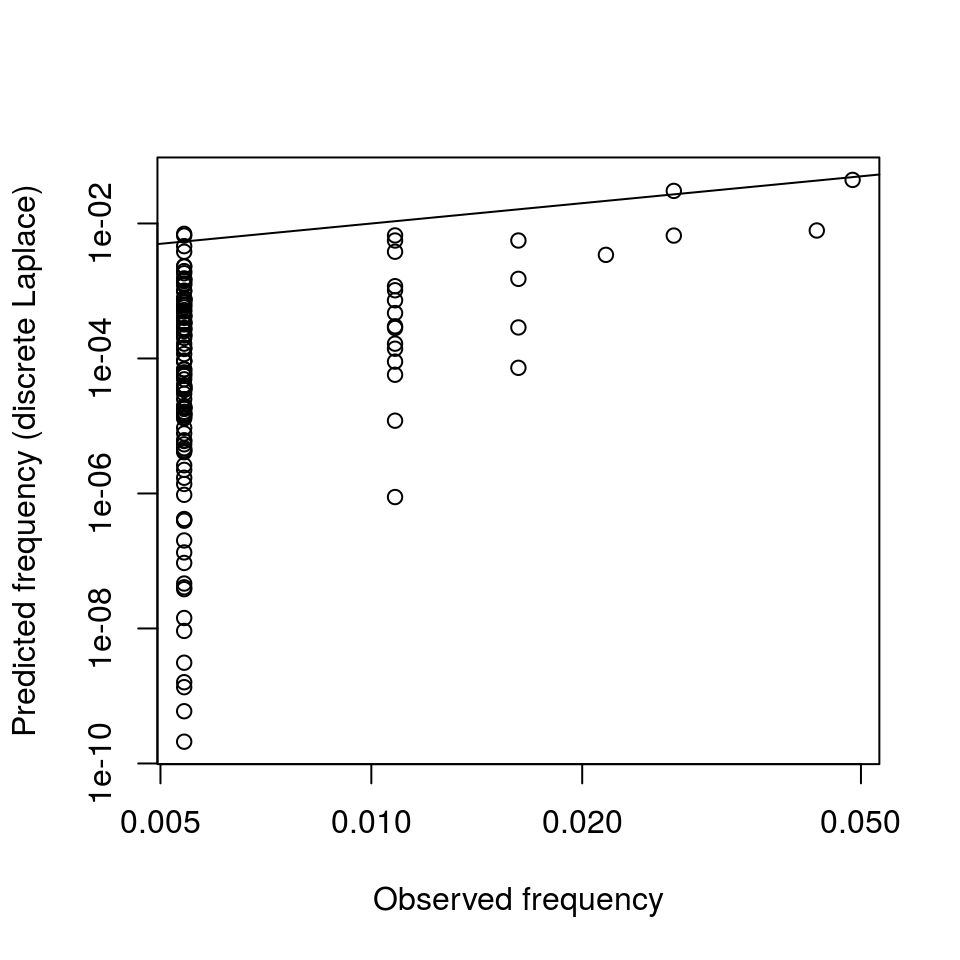
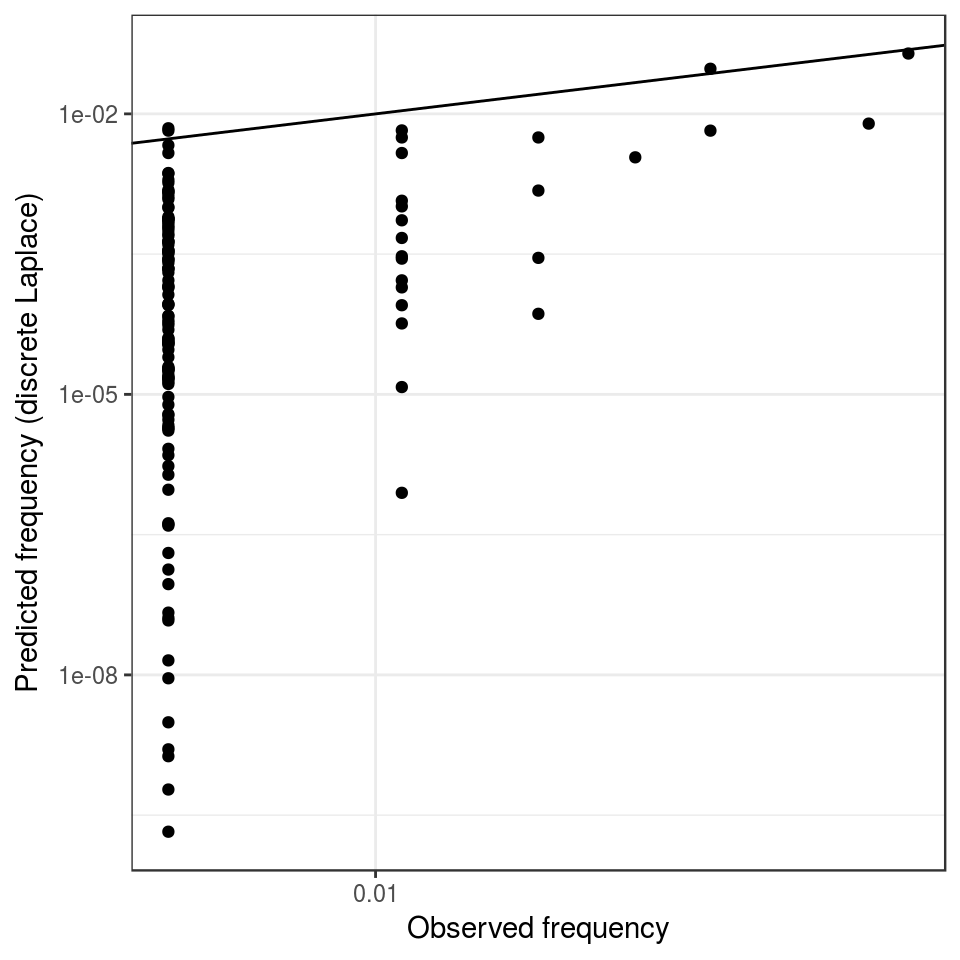
Fixes #2

diff --git a/inst/doc/introduction.html b/inst/doc/introduction.html
@@ -69,7 +69,7 @@ code > span.in { color: #60a0b0; font-weight: bold; font-style: italic; } /* Inf
 
 <h1 class="title toc-ignore">Introduction</h1>
 <h4 class="author"><em>Mikkel Meyer Andersen</em></h4>
-<h4 class="date"><em>24 April, 2018</em></h4>
+<h4 class="date"><em>01 June, 2018</em></h4>
 
 
 
@@ -79,11 +79,13 @@ code > span.in { color: #60a0b0; font-weight: bold; font-style: italic; } /* Inf
 </div>
 <div id="analysis" class="section level1">
 <h1>Analysis</h1>
-<p>A Danish reference database <span class="citation">(Hallenberg et al. 2005)</span> with <span class="math inline">\(n = 185\)</span> observations (male Y-STR haplotypes) at <span class="math inline">\(r=10\)</span> loci is available in the <code>dane</code> dataset. Let us load the package as well as the data:</p>
-<div class="sourceCode"><pre class="sourceCode r"><code class="sourceCode r"><span class="kw">library</span>(disclapmix)
+<p>A Danish reference database <span class="citation">(Hallenberg et al. 2005)</span> with <span class="math inline">\(n = 185\)</span> observations (male Y-STR haplotypes) at <span class="math inline">\(r=10\)</span> loci is available in the <code>danes</code> dataset. Let us load the package as well as the data:</p>
+<div class="sourceCode"><pre class="sourceCode r"><code class="sourceCode r"><span class="kw">library</span>(ggplot2)
+
+<span class="kw">library</span>(disclapmix)
 <span class="kw">data</span>(danes)</code></pre></div>
 <p>The database is in compact format, i.e. one unique haplotype per row. To fit the model, we need one observation per row. This is done for example like this:</p>
-<div class="sourceCode"><pre class="sourceCode r"><code class="sourceCode r">db &lt;-<span class="st"> </span><span class="kw">as.matrix</span>(danes[<span class="kw">rep</span>(<span class="dv">1</span>:<span class="kw">nrow</span>(danes), danes$n), <span class="dv">1</span>:(<span class="kw">ncol</span>(danes)-<span class="dv">1</span>)])
+<div class="sourceCode"><pre class="sourceCode r"><code class="sourceCode r">db &lt;-<span class="st"> </span><span class="kw">as.matrix</span>(danes[<span class="kw">rep</span>(<span class="kw">seq_len</span>(<span class="kw">nrow</span>(danes)), danes$n), <span class="kw">seq_len</span>(<span class="kw">ncol</span>(danes)-<span class="dv">1</span>)])
 <span class="kw">str</span>(db)</code></pre></div>
 <pre><code>##  int [1:185, 1:10] 13 13 13 13 13 13 14 14 14 14 ...
 ##  - attr(*, &quot;dimnames&quot;)=List of 2
@@ -104,7 +106,7 @@ marginalBICs &lt;-<span class="st"> </span><span class="kw">sapply</span>(fits, 
 })
 
 bestfit &lt;-<span class="st"> </span>fits[[<span class="kw">which.min</span>(marginalBICs)]]</code></pre></div>
-<p>The best fit is now in the <code>bestfit</code> that can be inspected by <code>print</code> (default method called when the variable is just written) or <code>summary</code>:</p>
+<p>The best fit is now in the <code>bestfit</code> that can be inspected by <code>print</code> (default method called when the variable is just written) or <code>summary</code> which (currently) give the same output:</p>
 <div class="sourceCode"><pre class="sourceCode r"><code class="sourceCode r">bestfit</code></pre></div>
 <pre><code>## disclapmixfit from 185 observations on 10 loci with 4 clusters.</code></pre>
 <div class="sourceCode"><pre class="sourceCode r"><code class="sourceCode r"><span class="kw">summary</span>(bestfit)</code></pre></div>
@@ -146,15 +148,18 @@ bestfit &lt;-<span class="st"> </span>fits[[<span class="kw">which.min</span>(ma
 ## cluster4 0.08626391 0.03665325 0.03335805 0.1497008</code></pre>
 <p>The returned object is described in <code>?disclapmix</code> and objects can be inspected using e.g. <code>str()</code>.</p>
 <p>Haplotype frequencies can be obtained using the <code>predict</code> function. Note, that this is done per haplotype (<code>danes</code>) and not per observation (<code>db</code>):</p>
-<div class="sourceCode"><pre class="sourceCode r"><code class="sourceCode r">disclap_estimates &lt;-<span class="st"> </span><span class="kw">predict</span>(bestfit, <span class="dt">newdata =</span> <span class="kw">as.matrix</span>(danes[, <span class="dv">1</span>:(<span class="kw">ncol</span>(danes) -<span class="st"> </span><span class="dv">1</span>)]))</code></pre></div>
+<div class="sourceCode"><pre class="sourceCode r"><code class="sourceCode r">disclap_estimates &lt;-<span class="st"> </span><span class="kw">predict</span>(bestfit, 
+                             <span class="dt">newdata =</span> <span class="kw">as.matrix</span>(danes[, <span class="dv">1</span>:(<span class="kw">ncol</span>(danes) -<span class="st"> </span><span class="dv">1</span>)]))</code></pre></div>
 <p>These can be compared to the database frequencies:</p>
-<div class="sourceCode"><pre class="sourceCode r"><code class="sourceCode r"><span class="kw">plot</span>(<span class="dt">x =</span> danes$n/<span class="kw">sum</span>(danes$n), 
-     <span class="dt">y =</span> disclap_estimates, 
-     <span class="dt">xlab =</span> <span class="st">&quot;Observed frequency&quot;</span>,
-     <span class="dt">ylab =</span> <span class="st">&quot;Predicted frequency (discrete Laplace)&quot;</span>,
-     <span class="dt">log =</span> <span class="st">&quot;xy&quot;</span>)
-<span class="kw">abline</span>(<span class="dv">0</span>, <span class="dv">1</span>)</code></pre></div>
[1 lines of base64/hex data omitted]
+<div class="sourceCode"><pre class="sourceCode r"><code class="sourceCode r"><span class="kw">ggplot</span>() +
+<span class="st">  </span><span class="kw">geom_abline</span>(<span class="dt">intercept =</span> <span class="dv">0</span>, <span class="dt">slope =</span> <span class="dv">1</span>) +
+<span class="st">  </span><span class="kw">geom_point</span>(<span class="kw">aes</span>(<span class="dt">x =</span> danes$n/<span class="kw">sum</span>(danes$n), <span class="dt">y =</span> disclap_estimates)) +
+<span class="st">  </span><span class="kw">labs</span>(<span class="dt">x =</span> <span class="st">&quot;Observed frequency&quot;</span>,
+       <span class="dt">y =</span> <span class="st">&quot;Predicted frequency (discrete Laplace)&quot;</span>) +
+<span class="st">  </span><span class="kw">theme_bw</span>() +
+<span class="st">  </span><span class="kw">scale_x_log10</span>() +
+<span class="st">  </span><span class="kw">scale_y_log10</span>()</code></pre></div>
[1 lines of base64/hex data omitted]
 </div>
 <div id="references" class="section level1 unnumbered">
 <h1>References</h1>
@@ -163,7 +168,7 @@ bestfit &lt;-<span class="st"> </span>fits[[<span class="kw">which.min</span>(ma
 <p>Andersen, Mikkel Meyer, Poul Svante Eriksen, and Niels Morling. 2013a. “A gentle introduction to the discrete Laplace method for estimating Y-STR haplotype frequencies.” <em>Preprint, ArXiv:1304.2129</em>.</p>
 </div>
 <div id="ref-AndersenDisclap2013">
-<p>———. 2013b. “The discrete Laplace exponential family and estimation of Y-STR haplotype frequencies.” <em>Journal of Theoretical Biology</em> 329: 39–51.</p>
+<p>———. 2013b. “The discrete Laplace exponential family and estimation of Y-STR haplotype frequencies.” <em>Journal of Theoretical Biology</em> 329: 39–51. doi:<a href="https://doi.org/10.1016/j.jtbi.2013.03.009">10.1016/j.jtbi.2013.03.009</a>.</p>
 </div>
 <div id="ref-Hallenberg2005YchromosomeSH">
 <p>Hallenberg, Charlotte, Karsten Nielsen, Bo Simonsen, Juan Sanchez, and Niels Morling. 2005. “Y-Chromosome Str Haplotypes in Danes.” <em>Forensic Science International</em> 155 2-3: 205–10.</p>

diff --git a/docs/reference/disclapmix.html b/docs/reference/disclapmix.html
@@ -273,60 +273,60 @@ in R is used.</p>
 #&gt; [4,]   15   15   16   15
 #&gt; [5,]   18   16   18   16
 #&gt; [6,]   14   15   16   17</div><div class='input'>
-<span class='no'>fit1</span> <span class='kw'>&lt;-</span> <span class='fu'>disclapmix</span>(<span class='no'>db</span>, <span class='kw'>clusters</span> <span class='kw'>=</span> <span class='fl'>1L</span>, <span class='kw'>verbose</span> <span class='kw'>=</span> <span class='fl'>1L</span>, <span class='kw'>glm_method</span> <span class='kw'>=</span> <span class='st'>"glm.fit"</span>)</div><div class='output co'>#&gt; 2018-05-23 10:30:20: Starting estimation for 1 clusters.
-#&gt; 2018-05-23 10:30:20: Estimating initial central haplotypes, y, using pam.
-#&gt; 2018-05-23 10:30:20: Initial central haplotypes, y, estimated.
-#&gt; 2018-05-23 10:30:20: Starting to generate model matrix.
-#&gt; 2018-05-23 10:30:20: Model matrix generated.
-#&gt; 2018-05-23 10:30:20: Starting to generate initial response vector.
-#&gt; 2018-05-23 10:30:20: Initial response vector done.
-#&gt; 2018-05-23 10:30:20: Model matrix and initial vectors has been generated.
-#&gt; 2018-05-23 10:30:20: Starting the EM algorithm using glm.fit IRLS method.
-#&gt; 2018-05-23 10:30:20: Iteration 1, max|vic - vic_old| / max(vic_old) = 0 / 0 = NaN (eps = 0.001)
-#&gt; 2018-05-23 10:30:20: Checking if the central haplotypes, y, are optimal.
-#&gt; 2018-05-23 10:30:20: Central haplotypes, y, were optimal, no need to more EM iterations.
-#&gt; 2018-05-23 10:30:20: Done.</div><div class='input'><span class='no'>fit1</span>$<span class='no'>disclap_parameters</span></div><div class='output co'>#&gt;            locus1    locus2    locus3    locus4
+<span class='no'>fit1</span> <span class='kw'>&lt;-</span> <span class='fu'>disclapmix</span>(<span class='no'>db</span>, <span class='kw'>clusters</span> <span class='kw'>=</span> <span class='fl'>1L</span>, <span class='kw'>verbose</span> <span class='kw'>=</span> <span class='fl'>1L</span>, <span class='kw'>glm_method</span> <span class='kw'>=</span> <span class='st'>"glm.fit"</span>)</div><div class='output co'>#&gt; 2018-06-01 19:43:09: Starting estimation for 1 clusters.
+#&gt; 2018-06-01 19:43:09: Estimating initial central haplotypes, y, using pam.
+#&gt; 2018-06-01 19:43:09: Initial central haplotypes, y, estimated.
+#&gt; 2018-06-01 19:43:09: Starting to generate model matrix.
+#&gt; 2018-06-01 19:43:09: Model matrix generated.
+#&gt; 2018-06-01 19:43:09: Starting to generate initial response vector.
+#&gt; 2018-06-01 19:43:09: Initial response vector done.
+#&gt; 2018-06-01 19:43:09: Model matrix and initial vectors has been generated.
+#&gt; 2018-06-01 19:43:09: Starting the EM algorithm using glm.fit IRLS method.
+#&gt; 2018-06-01 19:43:09: Iteration 1, max|vic - vic_old| / max(vic_old) = 0 / 0 = NaN (eps = 0.001)
+#&gt; 2018-06-01 19:43:09: Checking if the central haplotypes, y, are optimal.
+#&gt; 2018-06-01 19:43:09: Central haplotypes, y, were optimal, no need to more EM iterations.
+#&gt; 2018-06-01 19:43:09: Done.</div><div class='input'><span class='no'>fit1</span>$<span class='no'>disclap_parameters</span></div><div class='output co'>#&gt;            locus1    locus2    locus3    locus4
 #&gt; cluster1 0.276984 0.3152222 0.2941409 0.3254467</div><div class='input'><span class='no'>fit1</span>$<span class='no'>y</span></div><div class='output co'>#&gt;      locus1 locus2 locus3 locus4
 #&gt; [1,]     14     15     16     17</div><div class='input'>
-<span class='no'>fit1b</span> <span class='kw'>&lt;-</span> <span class='fu'>disclapmix</span>(<span class='no'>db</span>, <span class='kw'>clusters</span> <span class='kw'>=</span> <span class='fl'>1L</span>, <span class='kw'>verbose</span> <span class='kw'>=</span> <span class='fl'>1L</span>, <span class='kw'>glm_method</span> <span class='kw'>=</span> <span class='st'>"internal_coef"</span>)</div><div class='output co'>#&gt; 2018-05-23 10:30:20: Starting estimation for 1 clusters.
-#&gt; 2018-05-23 10:30:20: Estimating initial central haplotypes, y, using pam.
-#&gt; 2018-05-23 10:30:20: Initial central haplotypes, y, estimated.
-#&gt; 2018-05-23 10:30:20: No need to generate model matrix when using internal_coef.
-#&gt; 2018-05-23 10:30:20: Starting to generate initial response vector.
-#&gt; 2018-05-23 10:30:20: Initial response vector done.
-#&gt; 2018-05-23 10:30:20: Model matrix and initial vectors has been generated.
-#&gt; 2018-05-23 10:30:20: Starting the EM algorithm using internal_coef IRLS method.
-#&gt; 2018-05-23 10:30:20: Iteration 1, max|vic - vic_old| / max(vic_old) = 0 / 0 = NaN (eps = 0.001)
-#&gt; 2018-05-23 10:30:20: Checking if the central haplotypes, y, are optimal.
-#&gt; 2018-05-23 10:30:20: Central haplotypes, y, were optimal, no need to more EM iterations.
-#&gt; 2018-05-23 10:30:20: Done.</div><div class='input'><span class='no'>fit1b</span>$<span class='no'>disclap_parameters</span></div><div class='output co'>#&gt;            locus1    locus2    locus3    locus4
+<span class='no'>fit1b</span> <span class='kw'>&lt;-</span> <span class='fu'>disclapmix</span>(<span class='no'>db</span>, <span class='kw'>clusters</span> <span class='kw'>=</span> <span class='fl'>1L</span>, <span class='kw'>verbose</span> <span class='kw'>=</span> <span class='fl'>1L</span>, <span class='kw'>glm_method</span> <span class='kw'>=</span> <span class='st'>"internal_coef"</span>)</div><div class='output co'>#&gt; 2018-06-01 19:43:09: Starting estimation for 1 clusters.
+#&gt; 2018-06-01 19:43:09: Estimating initial central haplotypes, y, using pam.
+#&gt; 2018-06-01 19:43:09: Initial central haplotypes, y, estimated.
+#&gt; 2018-06-01 19:43:09: No need to generate model matrix when using internal_coef.
+#&gt; 2018-06-01 19:43:09: Starting to generate initial response vector.
+#&gt; 2018-06-01 19:43:09: Initial response vector done.
+#&gt; 2018-06-01 19:43:09: Model matrix and initial vectors has been generated.
+#&gt; 2018-06-01 19:43:09: Starting the EM algorithm using internal_coef IRLS method.
+#&gt; 2018-06-01 19:43:09: Iteration 1, max|vic - vic_old| / max(vic_old) = 0 / 0 = NaN (eps = 0.001)
+#&gt; 2018-06-01 19:43:09: Checking if the central haplotypes, y, are optimal.
+#&gt; 2018-06-01 19:43:09: Central haplotypes, y, were optimal, no need to more EM iterations.
+#&gt; 2018-06-01 19:43:09: Done.</div><div class='input'><span class='no'>fit1b</span>$<span class='no'>disclap_parameters</span></div><div class='output co'>#&gt;            locus1    locus2    locus3    locus4
 #&gt; cluster1 0.276984 0.3152222 0.2941409 0.3254467</div><div class='input'><span class='no'>fit1b</span>$<span class='no'>y</span></div><div class='output co'>#&gt;      locus1 locus2 locus3 locus4
 #&gt; [1,]     14     15     16     17</div><div class='input'>
 <span class='fu'>max</span>(<span class='fu'>abs</span>(<span class='no'>fit1</span>$<span class='no'>disclap_parameters</span> - <span class='no'>fit1b</span>$<span class='no'>disclap_parameters</span>))</div><div class='output co'>#&gt; [1] 1.585204e-11</div><div class='input'>
 <span class='co'># Generate another type of database</span>
 <span class='no'>db2</span> <span class='kw'>&lt;-</span> <span class='fu'>matrix</span>(<span class='kw pkg'>disclap</span><span class='kw ns'>::</span><span class='fu'><a href='http://www.rdocumentation.org/packages/disclap/topics/ddisclap'>rdisclap</a></span>(<span class='fl'>2000</span>, <span class='fl'>0.1</span>), <span class='kw'>nrow</span> <span class='kw'>=</span> <span class='fl'>500</span>, <span class='kw'>ncol</span> <span class='kw'>=</span> <span class='fl'>4</span>)
 <span class='no'>db2</span> <span class='kw'>&lt;-</span> <span class='fu'>sapply</span>(<span class='fl'>1</span>:<span class='fu'>ncol</span>(<span class='no'>db2</span>), <span class='kw'>function</span>(<span class='no'>i</span>) <span class='fu'>as.integer</span>(<span class='no'>db2</span>[, <span class='no'>i</span>]+<span class='fl'>14</span>+<span class='no'>i</span>))
-<span class='no'>fit2</span> <span class='kw'>&lt;-</span> <span class='fu'>disclapmix</span>(<span class='fu'>rbind</span>(<span class='no'>db</span>, <span class='no'>db2</span>), <span class='kw'>clusters</span> <span class='kw'>=</span> <span class='fl'>2L</span>, <span class='kw'>verbose</span> <span class='kw'>=</span> <span class='fl'>1L</span>)</div><div class='output co'>#&gt; 2018-05-23 10:30:20: Starting estimation for 2 clusters.
-#&gt; 2018-05-23 10:30:20: Estimating initial central haplotypes, y, using pam.
-#&gt; 2018-05-23 10:30:20: Initial central haplotypes, y, estimated.
-#&gt; 2018-05-23 10:30:20: No need to generate model matrix when using internal_coef.
-#&gt; 2018-05-23 10:30:20: Starting to generate initial response vector.
-#&gt; 2018-05-23 10:30:20: Initial response vector done.
-#&gt; 2018-05-23 10:30:20: Model matrix and initial vectors has been generated.
-#&gt; 2018-05-23 10:30:20: Starting the EM algorithm using internal_coef IRLS method.
-#&gt; 2018-05-23 10:30:20: Iteration 1, max|vic - vic_old| / max(vic_old) = 0.4995725 / 0 = Inf (eps = 0.001)
-#&gt; 2018-05-23 10:30:20: Iteration 2, max|vic - vic_old| / max(vic_old) = 0.3976106 / 0.9995725 = 0.3977806 (eps = 0.001)
-#&gt; 2018-05-23 10:30:20: Iteration 3, max|vic - vic_old| / max(vic_old) = 0.09065252 / 0.9999994 = 0.09065258 (eps = 0.001)
-#&gt; 2018-05-23 10:30:20: Iteration 4, max|vic - vic_old| / max(vic_old) = 0.02714588 / 0.9999998 = 0.02714589 (eps = 0.001)
-#&gt; 2018-05-23 10:30:20: Iteration 5, max|vic - vic_old| / max(vic_old) = 0.007961174 / 0.9999999 = 0.007961175 (eps = 0.001)
-#&gt; 2018-05-23 10:30:21: Iteration 6, max|vic - vic_old| / max(vic_old) = 0.002298016 / 0.9999999 = 0.002298016 (eps = 0.001)
-#&gt; 2018-05-23 10:30:21: Iteration 7, max|vic - vic_old| / max(vic_old) = 0.0006605518 / 0.9999999 = 0.0006605519 (eps = 0.001)
+<span class='no'>fit2</span> <span class='kw'>&lt;-</span> <span class='fu'>disclapmix</span>(<span class='fu'>rbind</span>(<span class='no'>db</span>, <span class='no'>db2</span>), <span class='kw'>clusters</span> <span class='kw'>=</span> <span class='fl'>2L</span>, <span class='kw'>verbose</span> <span class='kw'>=</span> <span class='fl'>1L</span>)</div><div class='output co'>#&gt; 2018-06-01 19:43:09: Starting estimation for 2 clusters.
+#&gt; 2018-06-01 19:43:09: Estimating initial central haplotypes, y, using pam.
+#&gt; 2018-06-01 19:43:09: Initial central haplotypes, y, estimated.
+#&gt; 2018-06-01 19:43:09: No need to generate model matrix when using internal_coef.
+#&gt; 2018-06-01 19:43:09: Starting to generate initial response vector.
+#&gt; 2018-06-01 19:43:09: Initial response vector done.
+#&gt; 2018-06-01 19:43:09: Model matrix and initial vectors has been generated.
+#&gt; 2018-06-01 19:43:09: Starting the EM algorithm using internal_coef IRLS method.
+#&gt; 2018-06-01 19:43:09: Iteration 1, max|vic - vic_old| / max(vic_old) = 0.4995725 / 0 = Inf (eps = 0.001)
+#&gt; 2018-06-01 19:43:09: Iteration 2, max|vic - vic_old| / max(vic_old) = 0.3976106 / 0.9995725 = 0.3977806 (eps = 0.001)
+#&gt; 2018-06-01 19:43:09: Iteration 3, max|vic - vic_old| / max(vic_old) = 0.09065252 / 0.9999994 = 0.09065258 (eps = 0.001)
+#&gt; 2018-06-01 19:43:09: Iteration 4, max|vic - vic_old| / max(vic_old) = 0.02714588 / 0.9999998 = 0.02714589 (eps = 0.001)
+#&gt; 2018-06-01 19:43:09: Iteration 5, max|vic - vic_old| / max(vic_old) = 0.007961174 / 0.9999999 = 0.007961175 (eps = 0.001)
+#&gt; 2018-06-01 19:43:09: Iteration 6, max|vic - vic_old| / max(vic_old) = 0.002298016 / 0.9999999 = 0.002298016 (eps = 0.001)
+#&gt; 2018-06-01 19:43:09: Iteration 7, max|vic - vic_old| / max(vic_old) = 0.0006605518 / 0.9999999 = 0.0006605519 (eps = 0.001)
 #&gt; 
-#&gt; 2018-05-23 10:30:21: Stopping after 7 iterations due to convergence, 0.001 &gt; 0.0006605519
+#&gt; 2018-06-01 19:43:09: Stopping after 7 iterations due to convergence, 0.001 &gt; 0.0006605519
 #&gt; 
-#&gt; 2018-05-23 10:30:21: Checking if the central haplotypes, y, are optimal.
-#&gt; 2018-05-23 10:30:21: Central haplotypes, y, were optimal, no need to more EM iterations.
-#&gt; 2018-05-23 10:30:21: Done.</div><div class='input'><span class='no'>fit2</span>$<span class='no'>disclap_parameters</span></div><div class='output co'>#&gt;              locus1     locus2     locus3    locus4
+#&gt; 2018-06-01 19:43:09: Checking if the central haplotypes, y, are optimal.
+#&gt; 2018-06-01 19:43:09: Central haplotypes, y, were optimal, no need to more EM iterations.
+#&gt; 2018-06-01 19:43:09: Done.</div><div class='input'><span class='no'>fit2</span>$<span class='no'>disclap_parameters</span></div><div class='output co'>#&gt;              locus1     locus2     locus3    locus4
 #&gt; cluster1 0.29381493 0.30891980 0.29228155 0.3103804
 #&gt; cluster2 0.09484327 0.09971911 0.09434829 0.1001906</div><div class='input'><span class='no'>fit2</span>$<span class='no'>y</span></div><div class='output co'>#&gt;      locus1 locus2 locus3 locus4
 #&gt; [1,]     14     15     16     17

diff --git a/docs/articles/introduction.html b/docs/articles/introduction.html
@@ -75,7 +75,7 @@
       <h1>Introduction</h1>
                         <h4 class="author">Mikkel Meyer Andersen</h4>
             
-            <h4 class="date">23 May, 2018</h4>
+            <h4 class="date">01 June, 2018</h4>
       
       
       <div class="hidden name"><code>introduction.Rmd</code></div>
@@ -92,11 +92,13 @@
 <div id="analysis" class="section level1">
 <h1 class="hasAnchor">
 <a href="#analysis" class="anchor"></a>Analysis</h1>
-<p>A Danish reference database <span class="citation">(Hallenberg et al. 2005)</span> with <span class="math inline">\(n = 185\)</span> observations (male Y-STR haplotypes) at <span class="math inline">\(r=10\)</span> loci is available in the <code>dane</code> dataset. Let us load the package as well as the data:</p>
-<div class="sourceCode"><pre class="sourceCode r"><code class="sourceCode r"><span class="kw">library</span>(disclapmix)
+<p>A Danish reference database <span class="citation">(Hallenberg et al. 2005)</span> with <span class="math inline">\(n = 185\)</span> observations (male Y-STR haplotypes) at <span class="math inline">\(r=10\)</span> loci is available in the <code>danes</code> dataset. Let us load the package as well as the data:</p>
+<div class="sourceCode"><pre class="sourceCode r"><code class="sourceCode r"><span class="kw">library</span>(ggplot2)
+
+<span class="kw">library</span>(disclapmix)
 <span class="kw">data</span>(danes)</code></pre></div>
 <p>The database is in compact format, i.e. one unique haplotype per row. To fit the model, we need one observation per row. This is done for example like this:</p>
-<div class="sourceCode"><pre class="sourceCode r"><code class="sourceCode r">db &lt;-<span class="st"> </span><span class="kw">as.matrix</span>(danes[<span class="kw">rep</span>(<span class="dv">1</span>:<span class="kw">nrow</span>(danes), danes$n), <span class="dv">1</span>:(<span class="kw">ncol</span>(danes)-<span class="dv">1</span>)])
+<div class="sourceCode"><pre class="sourceCode r"><code class="sourceCode r">db &lt;-<span class="st"> </span><span class="kw">as.matrix</span>(danes[<span class="kw">rep</span>(<span class="kw">seq_len</span>(<span class="kw">nrow</span>(danes)), danes$n), <span class="kw">seq_len</span>(<span class="kw">ncol</span>(danes)-<span class="dv">1</span>)])
 <span class="kw">str</span>(db)</code></pre></div>
 <pre><code>##  int [1:185, 1:10] 13 13 13 13 13 13 14 14 14 14 ...
 ##  - attr(*, "dimnames")=List of 2
@@ -117,7 +119,7 @@ marginalBICs &lt;-<span class="st"> </span><span class="kw">sapply</span>(fits, 
 })
 
 bestfit &lt;-<span class="st"> </span>fits[[<span class="kw">which.min</span>(marginalBICs)]]</code></pre></div>
-<p>The best fit is now in the <code>bestfit</code> that can be inspected by <code>print</code> (default method called when the variable is just written) or <code>summary</code>:</p>
+<p>The best fit is now in the <code>bestfit</code> that can be inspected by <code>print</code> (default method called when the variable is just written) or <code>summary</code> which (currently) give the same output:</p>
 <div class="sourceCode"><pre class="sourceCode r"><code class="sourceCode r">bestfit</code></pre></div>
 <pre><code>## disclapmixfit from 185 observations on 10 loci with 4 clusters.</code></pre>
 <div class="sourceCode"><pre class="sourceCode r"><code class="sourceCode r"><span class="kw">summary</span>(bestfit)</code></pre></div>
@@ -159,14 +161,17 @@ bestfit &lt;-<span class="st"> </span>fits[[<span class="kw">which.min</span>(ma
 ## cluster4 0.08626391 0.03665325 0.03335805 0.1497008</code></pre>
 <p>The returned object is described in <code>?disclapmix</code> and objects can be inspected using e.g. <code>str()</code>.</p>
 <p>Haplotype frequencies can be obtained using the <code>predict</code> function. Note, that this is done per haplotype (<code>danes</code>) and not per observation (<code>db</code>):</p>
-<div class="sourceCode"><pre class="sourceCode r"><code class="sourceCode r">disclap_estimates &lt;-<span class="st"> </span><span class="kw">predict</span>(bestfit, <span class="dt">newdata =</span> <span class="kw">as.matrix</span>(danes[, <span class="dv">1</span>:(<span class="kw">ncol</span>(danes) -<span class="st"> </span><span class="dv">1</span>)]))</code></pre></div>
+<div class="sourceCode"><pre class="sourceCode r"><code class="sourceCode r">disclap_estimates &lt;-<span class="st"> </span><span class="kw">predict</span>(bestfit, 
+                             <span class="dt">newdata =</span> <span class="kw">as.matrix</span>(danes[, <span class="dv">1</span>:(<span class="kw">ncol</span>(danes) -<span class="st"> </span><span class="dv">1</span>)]))</code></pre></div>
 <p>These can be compared to the database frequencies:</p>
-<div class="sourceCode"><pre class="sourceCode r"><code class="sourceCode r"><span class="kw">plot</span>(<span class="dt">x =</span> danes$n/<span class="kw">sum</span>(danes$n), 
-     <span class="dt">y =</span> disclap_estimates, 
-     <span class="dt">xlab =</span> <span class="st">"Observed frequency"</span>,
-     <span class="dt">ylab =</span> <span class="st">"Predicted frequency (discrete Laplace)"</span>,
-     <span class="dt">log =</span> <span class="st">"xy"</span>)
-<span class="kw">abline</span>(<span class="dv">0</span>, <span class="dv">1</span>)</code></pre></div>
+<div class="sourceCode"><pre class="sourceCode r"><code class="sourceCode r"><span class="kw"><a href="http://www.rdocumentation.org/packages/ggplot2/topics/ggplot">ggplot</a></span>() +
+<span class="st">  </span><span class="kw"><a href="http://www.rdocumentation.org/packages/ggplot2/topics/geom_abline">geom_abline</a></span>(<span class="dt">intercept =</span> <span class="dv">0</span>, <span class="dt">slope =</span> <span class="dv">1</span>) +
+<span class="st">  </span><span class="kw"><a href="http://www.rdocumentation.org/packages/ggplot2/topics/geom_point">geom_point</a></span>(<span class="kw"><a href="http://www.rdocumentation.org/packages/ggplot2/topics/aes">aes</a></span>(<span class="dt">x =</span> danes$n/<span class="kw">sum</span>(danes$n), <span class="dt">y =</span> disclap_estimates)) +
+<span class="st">  </span><span class="kw"><a href="http://www.rdocumentation.org/packages/ggplot2/topics/labs">labs</a></span>(<span class="dt">x =</span> <span class="st">"Observed frequency"</span>,
+       <span class="dt">y =</span> <span class="st">"Predicted frequency (discrete Laplace)"</span>) +
+<span class="st">  </span><span class="kw"><a href="http://www.rdocumentation.org/packages/ggplot2/topics/ggtheme">theme_bw</a></span>() +
+<span class="st">  </span><span class="kw"><a href="http://www.rdocumentation.org/packages/ggplot2/topics/scale_continuous">scale_x_log10</a></span>() +
+<span class="st">  </span><span class="kw"><a href="http://www.rdocumentation.org/packages/ggplot2/topics/scale_continuous">scale_y_log10</a></span>()</code></pre></div>
 <p><img src="introduction_files/figure-html/unnamed-chunk-10-1.png" width="480"></p>
 </div>
 <div id="references" class="section level1 unnumbered">
@@ -177,7 +182,7 @@ bestfit &lt;-<span class="st"> </span>fits[[<span class="kw">which.min</span>(ma
 <p>Andersen, Mikkel Meyer, Poul Svante Eriksen, and Niels Morling. 2013a. “A gentle introduction to the discrete Laplace method for estimating Y-STR haplotype frequencies.” <em>Preprint, ArXiv:1304.2129</em>.</p>
 </div>
 <div id="ref-AndersenDisclap2013">
-<p>———. 2013b. “The discrete Laplace exponential family and estimation of Y-STR haplotype frequencies.” <em>Journal of Theoretical Biology</em> 329: 39–51.</p>
+<p>———. 2013b. “The discrete Laplace exponential family and estimation of Y-STR haplotype frequencies.” <em>Journal of Theoretical Biology</em> 329: 39–51. doi:<a href="https://doi.org/10.1016/j.jtbi.2013.03.009">10.1016/j.jtbi.2013.03.009</a>.</p>
 </div>
 <div id="ref-Hallenberg2005YchromosomeSH">
 <p>Hallenberg, Charlotte, Karsten Nielsen, Bo Simonsen, Juan Sanchez, and Niels Morling. 2005. “Y-Chromosome Str Haplotypes in Danes.” <em>Forensic Science International</em> 155 2-3: 205–10.</p>

diff --git a/inst/doc/mixtures.html b/inst/doc/mixtures.html
@@ -69,7 +69,7 @@ code > span.in { color: #60a0b0; font-weight: bold; font-style: italic; } /* Inf
 
 <h1 class="title toc-ignore">Mixtures</h1>
 <h4 class="author"><em>Mikkel Meyer Andersen</em></h4>
-<h4 class="date"><em>24 April, 2018</em></h4>
+<h4 class="date"><em>01 June, 2018</em></h4>
 
 
 
@@ -79,11 +79,11 @@ code > span.in { color: #60a0b0; font-weight: bold; font-style: italic; } /* Inf
 </div>
 <div id="mixture-analysis" class="section level1">
 <h1>Mixture analysis</h1>
-<p>We again use the Danish reference database <span class="citation">(Hallenberg et al. 2005)</span> with <span class="math inline">\(n = 185\)</span> observations (male Y-STR haplotypes) at <span class="math inline">\(r=10\)</span> loci is available in the <code>dane</code> dataset. Let us load the package as well as the data:</p>
+<p>We again use the Danish reference database <span class="citation">(Hallenberg et al. 2005)</span> with <span class="math inline">\(n = 185\)</span> observations (male Y-STR haplotypes) at <span class="math inline">\(r=10\)</span> loci is available in the <code>danes</code> dataset. Let us load the package as well as the data:</p>
 <div class="sourceCode"><pre class="sourceCode r"><code class="sourceCode r"><span class="kw">library</span>(disclapmix)
 <span class="kw">data</span>(danes)</code></pre></div>
 <p>The database is in compact format, i.e. one unique haplotype per row. To fit the model, we need one observation per row. This is done for example like this:</p>
-<div class="sourceCode"><pre class="sourceCode r"><code class="sourceCode r">db &lt;-<span class="st"> </span><span class="kw">as.matrix</span>(danes[<span class="kw">rep</span>(<span class="dv">1</span>:<span class="kw">nrow</span>(danes), danes$n), <span class="dv">1</span>:(<span class="kw">ncol</span>(danes)-<span class="dv">1</span>)])
+<div class="sourceCode"><pre class="sourceCode r"><code class="sourceCode r">db &lt;-<span class="st"> </span><span class="kw">as.matrix</span>(danes[<span class="kw">rep</span>(<span class="kw">seq_len</span>(<span class="kw">nrow</span>(danes)), danes$n), <span class="kw">seq_len</span>(<span class="kw">ncol</span>(danes)-<span class="dv">1</span>)])
 <span class="kw">str</span>(db)</code></pre></div>
 <pre><code>##  int [1:185, 1:10] 13 13 13 13 13 13 14 14 14 14 ...
 ##  - attr(*, &quot;dimnames&quot;)=List of 2
@@ -173,10 +173,10 @@ ranked_pairs</code></pre></div>
 <p>Andersen, Mikkel Meyer, Poul Svante Eriksen, and Niels Morling. 2013a. “A gentle introduction to the discrete Laplace method for estimating Y-STR haplotype frequencies.” <em>Preprint, ArXiv:1304.2129</em>.</p>
 </div>
 <div id="ref-AndersenDisclap2013">
-<p>———. 2013b. “The discrete Laplace exponential family and estimation of Y-STR haplotype frequencies.” <em>Journal of Theoretical Biology</em> 329: 39–51.</p>
+<p>———. 2013b. “The discrete Laplace exponential family and estimation of Y-STR haplotype frequencies.” <em>Journal of Theoretical Biology</em> 329: 39–51. doi:<a href="https://doi.org/10.1016/j.jtbi.2013.03.009">10.1016/j.jtbi.2013.03.009</a>.</p>
 </div>
 <div id="ref-AndersenDisclapMixture2015">
-<p>Andersen, Mikkel Meyer, Poul Svante Eriksen, Helle Smidt Mogensen, and Niels Morling. 2015. “Identifying the most likely contributors to a Y-STR mixture using the discrete Laplace method.” <em>Forensic Science International: Genetics</em> 15: 76–83.</p>
+<p>Andersen, Mikkel Meyer, Poul Svante Eriksen, Helle Smidt Mogensen, and Niels Morling. 2015. “Identifying the most likely contributors to a Y-STR mixture using the discrete Laplace method.” <em>Forensic Science International: Genetics</em> 15: 76–83. doi:<a href="https://doi.org/10.1016/j.fsigen.2014.09.011">10.1016/j.fsigen.2014.09.011</a>.</p>
 </div>
 <div id="ref-Hallenberg2005YchromosomeSH">
 <p>Hallenberg, Charlotte, Karsten Nielsen, Bo Simonsen, Juan Sanchez, and Niels Morling. 2005. “Y-Chromosome Str Haplotypes in Danes.” <em>Forensic Science International</em> 155 2-3: 205–10.</p>

diff --git a/docs/articles/mixtures.html b/docs/articles/mixtures.html
@@ -75,7 +75,7 @@
       <h1>Mixtures</h1>
                         <h4 class="author">Mikkel Meyer Andersen</h4>
             
-            <h4 class="date">23 May, 2018</h4>
+            <h4 class="date">01 June, 2018</h4>
       
       
       <div class="hidden name"><code>mixtures.Rmd</code></div>
@@ -92,11 +92,11 @@
 <div id="mixture-analysis" class="section level1">
 <h1 class="hasAnchor">
 <a href="#mixture-analysis" class="anchor"></a>Mixture analysis</h1>
-<p>We again use the Danish reference database <span class="citation">(Hallenberg et al. 2005)</span> with <span class="math inline">\(n = 185\)</span> observations (male Y-STR haplotypes) at <span class="math inline">\(r=10\)</span> loci is available in the <code>dane</code> dataset. Let us load the package as well as the data:</p>
+<p>We again use the Danish reference database <span class="citation">(Hallenberg et al. 2005)</span> with <span class="math inline">\(n = 185\)</span> observations (male Y-STR haplotypes) at <span class="math inline">\(r=10\)</span> loci is available in the <code>danes</code> dataset. Let us load the package as well as the data:</p>
 <div class="sourceCode"><pre class="sourceCode r"><code class="sourceCode r"><span class="kw">library</span>(disclapmix)
 <span class="kw">data</span>(danes)</code></pre></div>
 <p>The database is in compact format, i.e. one unique haplotype per row. To fit the model, we need one observation per row. This is done for example like this:</p>
-<div class="sourceCode"><pre class="sourceCode r"><code class="sourceCode r">db &lt;-<span class="st"> </span><span class="kw">as.matrix</span>(danes[<span class="kw">rep</span>(<span class="dv">1</span>:<span class="kw">nrow</span>(danes), danes$n), <span class="dv">1</span>:(<span class="kw">ncol</span>(danes)-<span class="dv">1</span>)])
+<div class="sourceCode"><pre class="sourceCode r"><code class="sourceCode r">db &lt;-<span class="st"> </span><span class="kw">as.matrix</span>(danes[<span class="kw">rep</span>(<span class="kw">seq_len</span>(<span class="kw">nrow</span>(danes)), danes$n), <span class="kw">seq_len</span>(<span class="kw">ncol</span>(danes)-<span class="dv">1</span>)])
 <span class="kw">str</span>(db)</code></pre></div>
 <pre><code>##  int [1:185, 1:10] 13 13 13 13 13 13 14 14 14 14 ...
 ##  - attr(*, "dimnames")=List of 2
@@ -187,10 +187,10 @@ ranked_pairs</code></pre></div>
 <p>Andersen, Mikkel Meyer, Poul Svante Eriksen, and Niels Morling. 2013a. “A gentle introduction to the discrete Laplace method for estimating Y-STR haplotype frequencies.” <em>Preprint, ArXiv:1304.2129</em>.</p>
 </div>
 <div id="ref-AndersenDisclap2013">
-<p>———. 2013b. “The discrete Laplace exponential family and estimation of Y-STR haplotype frequencies.” <em>Journal of Theoretical Biology</em> 329: 39–51.</p>
+<p>———. 2013b. “The discrete Laplace exponential family and estimation of Y-STR haplotype frequencies.” <em>Journal of Theoretical Biology</em> 329: 39–51. doi:<a href="https://doi.org/10.1016/j.jtbi.2013.03.009">10.1016/j.jtbi.2013.03.009</a>.</p>
 </div>
 <div id="ref-AndersenDisclapMixture2015">
-<p>Andersen, Mikkel Meyer, Poul Svante Eriksen, Helle Smidt Mogensen, and Niels Morling. 2015. “Identifying the most likely contributors to a Y-STR mixture using the discrete Laplace method.” <em>Forensic Science International: Genetics</em> 15: 76–83.</p>
+<p>Andersen, Mikkel Meyer, Poul Svante Eriksen, Helle Smidt Mogensen, and Niels Morling. 2015. “Identifying the most likely contributors to a Y-STR mixture using the discrete Laplace method.” <em>Forensic Science International: Genetics</em> 15: 76–83. doi:<a href="https://doi.org/10.1016/j.fsigen.2014.09.011">10.1016/j.fsigen.2014.09.011</a>.</p>
 </div>
 <div id="ref-Hallenberg2005YchromosomeSH">
 <p>Hallenberg, Charlotte, Karsten Nielsen, Bo Simonsen, Juan Sanchez, and Niels Morling. 2005. “Y-Chromosome Str Haplotypes in Danes.” <em>Forensic Science International</em> 155 2-3: 205–10.</p>

diff --git a/docs/reference/rank_contributor_pairs.html b/docs/reference/rank_contributor_pairs.html
@@ -183,7 +183,16 @@ not twice as would be the case if taking order into consideration).</p>
 <span class='no'>fits</span> <span class='kw'>&lt;-</span> <span class='fu'>lapply</span>(<span class='fl'>1L</span>:<span class='fl'>5L</span>, <span class='kw'>function</span>(<span class='no'>clus</span>) <span class='fu'>disclapmix</span>(<span class='no'>db_ref</span>, <span class='kw'>clusters</span> <span class='kw'>=</span> <span class='no'>clus</span>))
 
 <span class='no'>best_fit_BIC</span> <span class='kw'>&lt;-</span> <span class='no'>fits</span><span class='kw'>[[</span><span class='fu'>which.min</span>(<span class='fu'>sapply</span>(<span class='no'>fits</span>, <span class='kw'>function</span>(<span class='no'>fit</span>) <span class='no'>fit</span>$<span class='no'>BIC_marginal</span>))]]
-<span class='no'>best_fit_BIC</span></div><div class='output co'>#&gt; disclapmixfit from 183 observations on 10 loci with 4 clusters.</div><div class='input'>
+<span class='no'>best_fit_BIC</span></div><div class='output co'>#&gt; disclapmixfit from 183 observations on 10 loci with 4 clusters.
+#&gt; 
+#&gt; EM converged:                                                       TRUE
+#&gt; Number of central haplotype changes:                                0
+#&gt; Total number of EM iterations:                                      15
+#&gt; Model observations (n*loci*clusters):                               1830
+#&gt; Model parameters ((clusters*loci)+(loci+clusters-1)+(clusters-1)):  56
+#&gt; GLM method:                                                         internal_coef
+#&gt; Initial central haplotypes supplied:                                FALSE
+#&gt; Method to find initial central haplotypes:                          pam</div><div class='input'>
 <span class='no'>ranked_contributors_BIC</span> <span class='kw'>&lt;-</span> <span class='fu'>rank_contributor_pairs</span>(<span class='no'>possible_contributors</span>, <span class='no'>best_fit_BIC</span>)
 <span class='no'>ranked_contributors_BIC</span></div><div class='output co'>#&gt; Mixture:
 #&gt;   DYS19 DYS389I DYS389II DYS390 DYS391 DYS392 DYS393 DYS437 DYS438 DYS439

diff --git a/docs/reference/plot.disclapmixfit.html b/docs/reference/plot.disclapmixfit.html
@@ -156,7 +156,7 @@ and locus. Side effect: A plot.</p>
 <span class='fu'>data</span>(<span class='no'>danes</span>)
 <span class='no'>db</span> <span class='kw'>&lt;-</span> <span class='fu'>as.matrix</span>(<span class='no'>danes</span>[<span class='fu'>rep</span>(<span class='fl'>1</span>:<span class='fu'>nrow</span>(<span class='no'>danes</span>), <span class='no'>danes</span>$<span class='no'>n</span>), <span class='fl'>1</span>:(<span class='fu'>ncol</span>(<span class='no'>danes</span>)-<span class='fl'>1</span>)])
 <span class='no'>fit</span> <span class='kw'>&lt;-</span> <span class='fu'>disclapmix</span>(<span class='no'>db</span>, <span class='kw'>clusters</span> <span class='kw'>=</span> <span class='fl'>4L</span>)
-<span class='fu'>plot</span>(<span class='no'>fit</span>)</div><div class='img'><img src='plot.disclapmixfit-1.png' alt='' width='700' height='433' /></div><div class='input'>
+<span class='fu'>plot</span>(<span class='no'>fit</span>)</div><div class='output co'>#&gt; <span class='error'>Error in .Call("order_optimal", dist, merge): "order_optimal" not resolved from current namespace (seriation)</span></div><div class='input'>
 </div></pre>
   </div>
   <div class="col-md-3 hidden-xs hidden-sm" id="sidebar">
